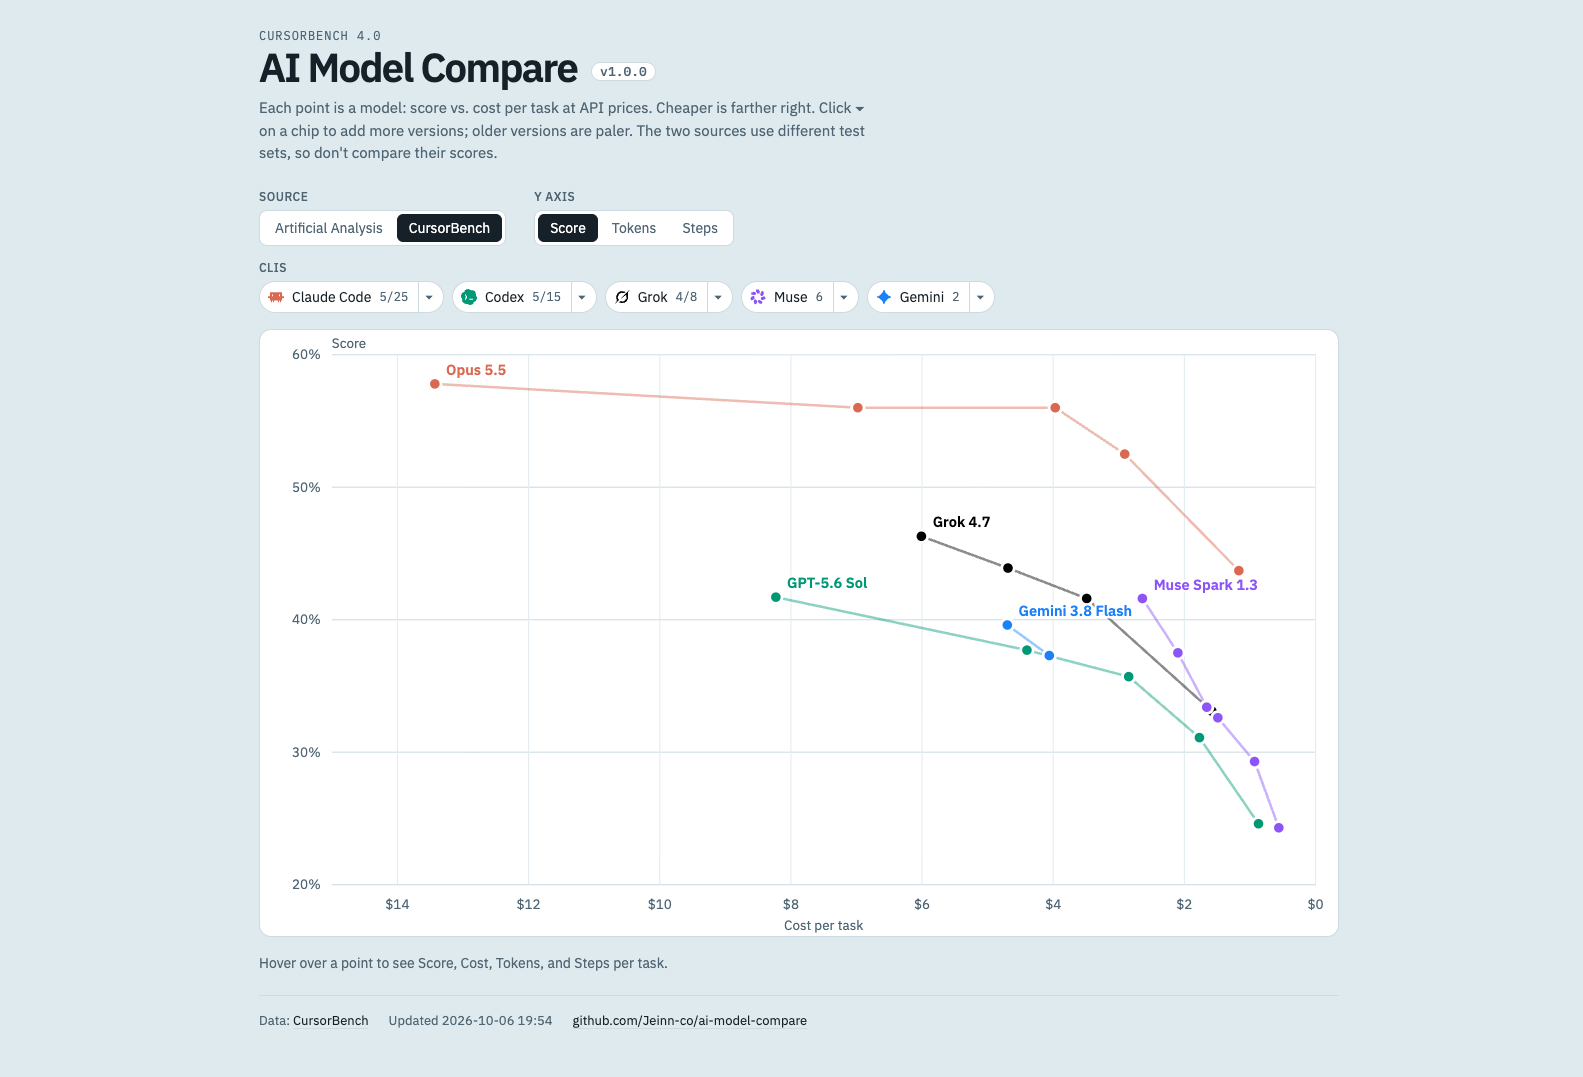
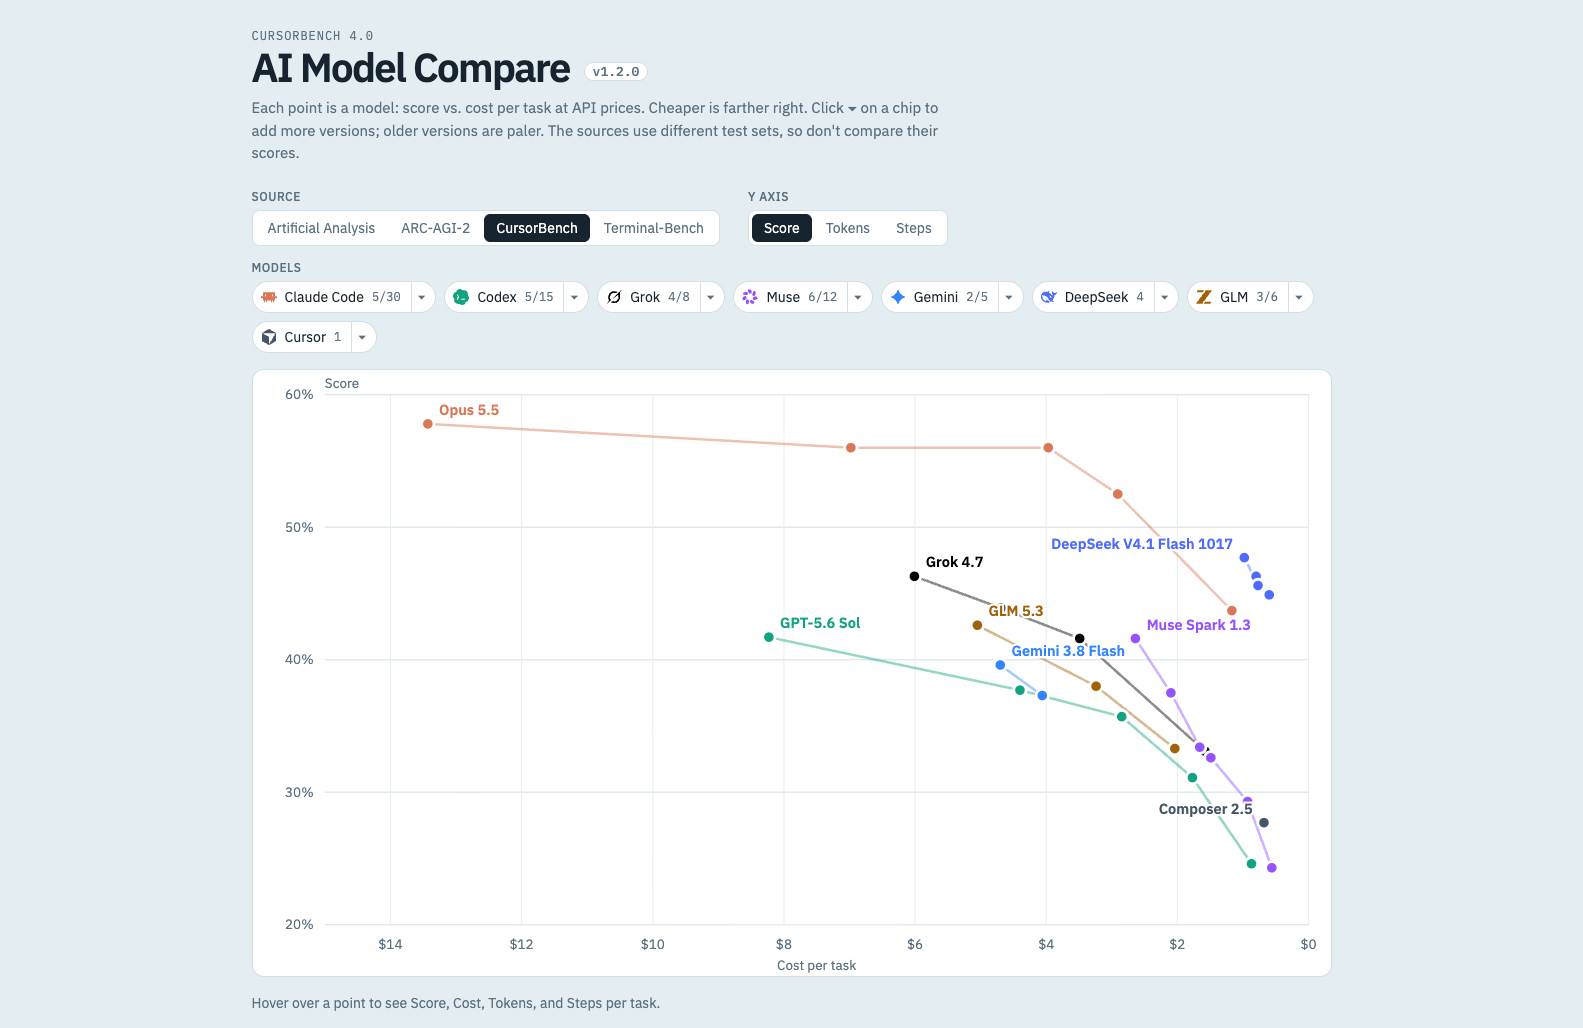
docs: retake README screenshots on v1.2.0 and update the Codex menu captions

diff --git a/README.md b/README.md
@@ -31,7 +31,7 @@ Hovering a point spotlights that model: the other lines fade, a crosshair marks 
 
 ![Demo: hover spotlights one model and dims the rest](docs/demo-hover.png)
 
-Each legend chip also has a ▾ menu to tick that CLI's models one by one, grouped by line with the newest version first; a line's title ticks the whole line. Here Codex shows its default, GPT-6.1 Sol: 5 of its 35 points. All screenshots on this page show the defaults.
+Each legend chip also has a ▾ menu to tick that CLI's models one by one, grouped by line with the newest version first; a line's title ticks the whole line. Here Codex shows its default, GPT-6.1 Sol: 5 of its 22 points. All screenshots on this page show the defaults.
 
 ![Demo: the model menu under a legend chip](docs/demo-menu.png)
 
@@ -39,7 +39,7 @@ Clicking a legend chip shows or hides that CLI. Here only Codex is visible.
 
 ![Demo: legend chips filter the chart to one CLI](docs/demo-filter.png)
 
-**Version rule:** every version the source lists for a line is in the ▾ menu, so on Artificial Analysis GPT-6.1 Sol, GPT-6 Sol and GPT-5.6 Sol are all there, as are Opus 5.5 and Opus 5; only ticked ones are drawn. A new version joins the menu as soon as the source lists it, with no code change, and starts unticked. Versions compare as decimals, so Grok 4.20 counts as older than Grok 4.7.
+**Version rule:** every version the source lists for a line is in the ▾ menu, so on Artificial Analysis GPT-6.1 Sol and GPT-6 Sol are both there, as are Opus 5.5 and Opus 5; only ticked ones are drawn. A new version joins the menu as soon as the source lists it, with no code change, and starts unticked. Versions compare as decimals, so Grok 4.20 counts as older than Grok 4.7.
 
 **Colours:** each CLI has one colour family, taken from an official colour that does not clash with the others: Claude Code terracotta `#D97757`, Codex OpenAI green `#10A37F`, Grok xAI black, Muse Meta AI violet `#9553FF` and Gemini blue `#3186FF`. Within a family the flagship line is darker and the small line lighter. The newest version of a line keeps the full colour; older versions fade toward white the older they are, so a faded line still reads as its CLI.
 
